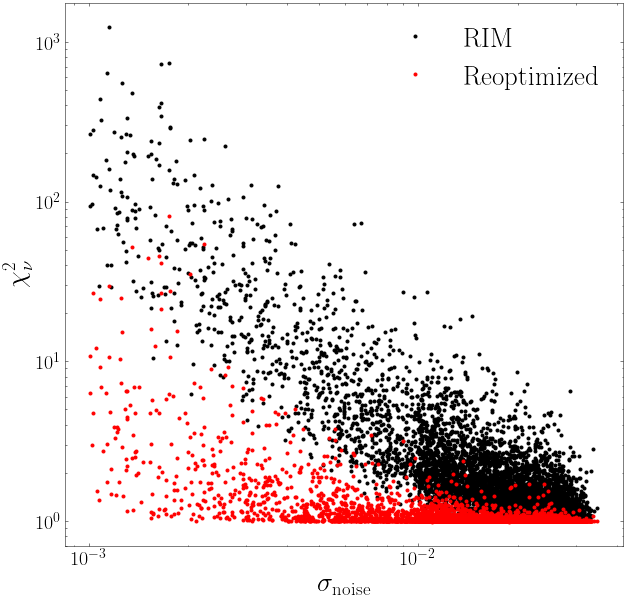
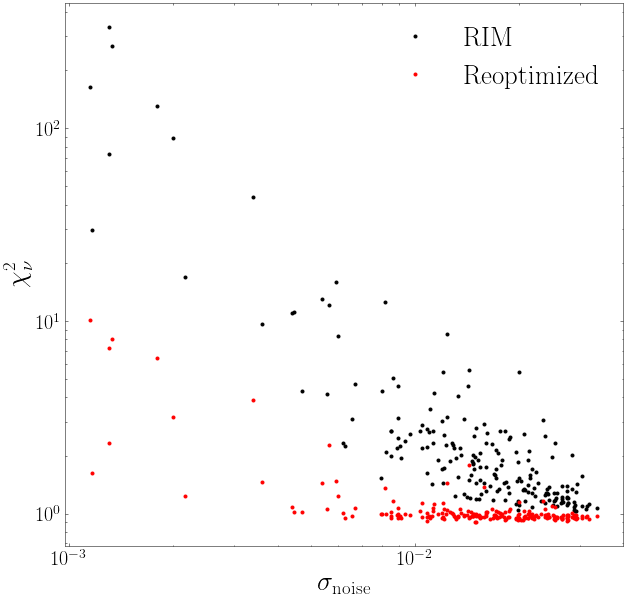
Changed posterior objective to MSE of 10 sampled example only. There is still noise leakage when using the likelihood.
Former-commit-id: 7bf9e7b4f662a9c8ff035907598c7f28be79a723
Former-commit-id: 8ffd5051af8841fdf4f3fb06a3e7d99a2af9382f [formerly e7903ff0aa4654e7fa6cabbfad51af16de6f926e]
Former-commit-id: 0380404e1549bbe18eb8680e52e0bcb5232954aa

diff --git a/scripts/rim_results_v4_and_optim_posterior.py b/scripts/rim_results_v4_and_optim_posterior.py
@@ -99,7 +99,7 @@ def distributed_strategy(args):
             g.create_dataset(name="chi_squared",                            shape=[data_len, rim.steps],                                                        dtype=np.float32)
             g.create_dataset(name="chi_squared_reoptimized",                shape=[data_len, rim.steps],                                                                   dtype=np.float32)
             g.create_dataset(name="chi_squared_reoptimized_series",         shape=[data_len, rim.steps, args.re_optimize_steps],                                           dtype=np.float32)
-            # g.create_dataset(name="sampled_chi_squared_reoptimized_series", shape=[data_len, args.re_optimize_steps],                                           dtype=np.float32)
+            g.create_dataset(name="sampled_chi_squared_reoptimized_series", shape=[data_len, args.re_optimize_steps],                                           dtype=np.float32)
             g.create_dataset(name="source_optim_mse",                       shape=[data_len],                                                                   dtype=np.float32)
             g.create_dataset(name="source_optim_mse_series",                shape=[data_len, args.re_optimize_steps],                                           dtype=np.float32)
             g.create_dataset(name="sampled_source_optim_mse_series",        shape=[data_len, args.re_optimize_steps],                                           dtype=np.float32)
@@ -150,10 +150,10 @@ def distributed_strategy(args):
                 z_kappa_std = args.kappa_vae_ball_size
 
                 # Sample latent code, then decode and forward
-                z_s = tf.random.normal(shape=[1, source_vae.latent_size], mean=z_source, stddev=z_source_std)
-                z_k = tf.random.normal(shape=[1, kappa_vae.latent_size], mean=z_kappa, stddev=z_kappa_std)
+                z_s = tf.random.normal(shape=[args.sample_size, source_vae.latent_size], mean=z_source, stddev=z_source_std)
+                z_k = tf.random.normal(shape=[args.sample_size, kappa_vae.latent_size],  mean=z_kappa,  stddev=z_kappa_std)
                 sampled_source = tf.nn.relu(source_vae.decode(z_s))
-                sampled_source /= tf.reduce_max(sampled_source, keepdims=True)  # make sampled source normalized and positive
+                sampled_source /= tf.reduce_max(sampled_source, axis=(1, 2, 3), keepdims=True)  # make sampled source normalized and positive
                 sampled_kappa = kappa_vae.decode(z_k)  # output in log_10 space
                 sampled_lens = phys.noisy_forward(sampled_source, 10**sampled_kappa, noise_rms, psf)  # for posterity and fishing experiments
 
@@ -181,11 +181,12 @@ def distributed_strategy(args):
                     with tf.GradientTape() as tape:
                         tape.watch(unet.trainable_variables)
                         # log likelihood
-                        s, k, chi_sq = rim.call(lens, noise_rms, psf, outer_tape=tape)
-                        cost = tf.reduce_mean(chi_sq)
+                        # s, k, chi_sq = rim.call(lens, noise_rms, psf, outer_tape=tape) # was using this in experiment 1 and 2 + only single sample for mse
+                        # cost = tf.reduce_mean(chi_sq)
                         # log prior
+                        s, k, chi_sq = rim.call(sampled_lens, noise_rms, psf, outer_tape=tape)
                         _kappa_mse = tf.reduce_sum(wk(10**sampled_kappa) * (k - sampled_kappa) ** 2, axis=(2, 3, 4))
-                        cost += tf.reduce_mean(_kappa_mse)
+                        cost = tf.reduce_mean(_kappa_mse)
                         cost += tf.reduce_mean((s - sampled_source)**2)
                         cost += tf.reduce_sum(rim.unet.losses)  # weight decay
 
@@ -193,10 +194,11 @@ def distributed_strategy(args):
                     optim.apply_gradients(zip(grads, unet.trainable_variables))
 
                     # Record performance on sampled dataset
-                    # sampled_chi_squared_series = sampled_chi_squared_series.write(index=current_step, value=tf.reduce_mean(s_chi_sq[-1]))
+                    sampled_chi_squared_series = sampled_chi_squared_series.write(index=current_step, value=tf.squeeze(tf.reduce_mean(chi_sq[-1])))
                     sampled_source_mse = sampled_source_mse.write(index=current_step, value=tf.reduce_mean((s[-1] - sampled_source) ** 2))
                     sampled_kappa_mse = sampled_kappa_mse.write(index=current_step, value=tf.reduce_mean((k[-1] - sampled_kappa) ** 2))
                     # Record model prediction on data
+                    s, k, chi_sq = rim.call(lens, noise_rms, psf, outer_tape=tape)
                     chi_squared_series = chi_squared_series.write(index=current_step, value=tf.squeeze(chi_sq))
                     source_o = s[-1]
                     kappa_o = k[-1]
@@ -222,7 +224,7 @@ def distributed_strategy(args):
                 chi_sq_series = tf.transpose(chi_squared_series.stack())
                 source_mse = source_mse.stack()
                 kappa_mse = kappa_mse.stack()
-                # sampled_chi_squared_series = sampled_chi_squared_series.stack()[None, ...]
+                sampled_chi_squared_series = sampled_chi_squared_series.stack()
                 sampled_source_mse = sampled_source_mse.stack()
                 sampled_kappa_mse = sampled_kappa_mse.stack()
 
@@ -245,19 +247,19 @@ def distributed_strategy(args):
                 g["noise_rms"][batch] = noise_rms.numpy().astype(np.float32)
                 g["source"][batch] = source.numpy().astype(np.float32)
                 g["kappa"][batch] = kappa.numpy().astype(np.float32)
-                g["lens_prior"][batch] = sampled_lens.numpy().astype(np.float32)
+                g["lens_prior"][batch] = sampled_lens[0].numpy().astype(np.float32)
                 g["lens_pred"][batch] = lens_pred.numpy().astype(np.float32)
                 g["lens_pred_reoptimized"][batch] = y_pred.numpy().astype(np.float32)
-                g["source_prior"][batch] = sampled_source.numpy().astype(np.float32)
+                g["source_prior"][batch] = sampled_source[0].numpy().astype(np.float32)
                 g["source_pred"][batch] = tf.transpose(source_pred, perm=(1, 0, 2, 3, 4)).numpy().astype(np.float32)
                 g["source_pred_reoptimized"][batch] = source_o.numpy().astype(np.float32)
-                g["kappa_prior"][batch] = 10**sampled_kappa.numpy().astype(np.float32)
+                g["kappa_prior"][batch] = 10**sampled_kappa[0].numpy().astype(np.float32)
                 g["kappa_pred"][batch] = tf.transpose(kappa_pred, perm=(1, 0, 2, 3, 4)).numpy().astype(np.float32)
                 g["kappa_pred_reoptimized"][batch] = kappa_o.numpy().astype(np.float32)
                 g["chi_squared"][batch] = 2*tf.squeeze(chi_squared).numpy().astype(np.float32)
                 g["chi_squared_reoptimized"][batch] = 2*tf.squeeze(best).numpy().astype(np.float32)
                 g["chi_squared_reoptimized_series"][batch] = 2*chi_sq_series.numpy().astype(np.float32)
-                # g["sampled_chi_squared_reoptimized_series"][batch] = 2*sampled_chi_squared_series.numpy().astype(np.float32)
+                g["sampled_chi_squared_reoptimized_series"][batch] = 2*sampled_chi_squared_series.numpy().astype(np.float32)
                 g["source_optim_mse"][batch] = source_mse_best.numpy().astype(np.float32)
                 g["source_optim_mse_series"][batch] = source_mse.numpy().astype(np.float32)
                 g["sampled_source_optim_mse_series"][batch] = sampled_source_mse.numpy().astype(np.float32)
@@ -302,13 +304,14 @@ if __name__ == '__main__':
     parser.add_argument("--test_dataset",       required=True)
     parser.add_argument("--test_size",          default=5000,       type=int)
     parser.add_argument("--buffer_size",        default=10000,      type=int)
+    parser.add_argument("--sample_size",        default=10,         type=int)
     parser.add_argument("--lens_coherence_bins",    default=40,     type=int)
     parser.add_argument("--source_coherence_bins",  default=40,     type=int)
     parser.add_argument("--kappa_coherence_bins",   default=40,     type=int)
     parser.add_argument("--re_optimize_steps",  default=2000,       type=int)
     parser.add_argument("--converged_chisq",    default=1.0,        type=float, help="Value of the chisq that is considered converged.")
-    parser.add_argument("--source_vae_ball_size",   default=0.1,    type=float, help="Standard deviation of the source VAE latent space sampling around RIM prediction")
-    parser.add_argument("--kappa_vae_ball_size",    default=0.1,    type=float, help="Standard deviation of the kappa VAE latent space sampling around RIM prediction")
+    parser.add_argument("--source_vae_ball_size",   default=0.5,    type=float, help="Standard deviation of the source VAE latent space sampling around RIM prediction")
+    parser.add_argument("--kappa_vae_ball_size",    default=0.5,    type=float, help="Standard deviation of the kappa VAE latent space sampling around RIM prediction")
     parser.add_argument("--l2_amp",             default=1e-6,       type=float)
     parser.add_argument("--learning_rate",      default=1e-6,       type=float)
     parser.add_argument("--decay_rate",         default=1,          type=float)
